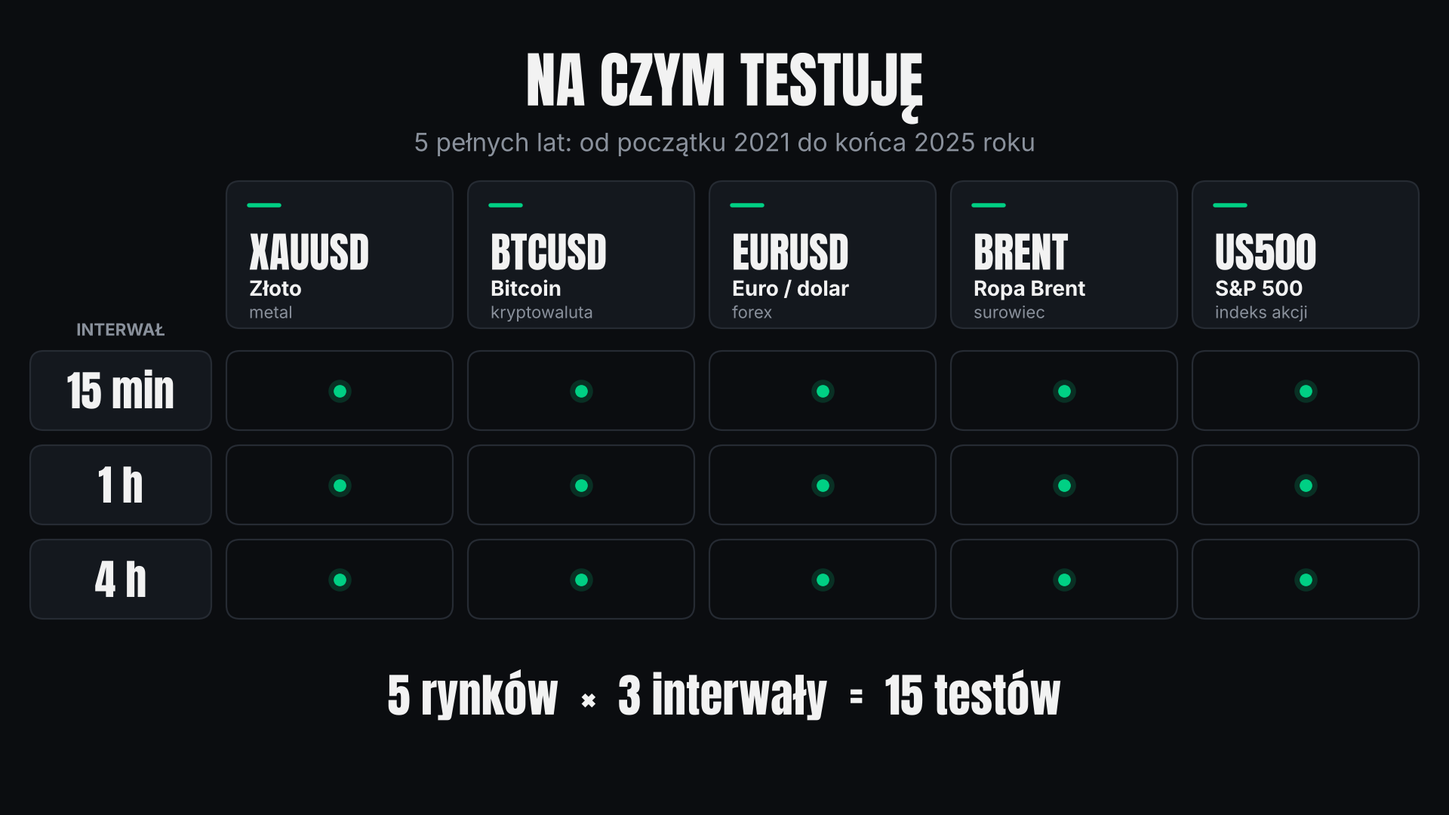
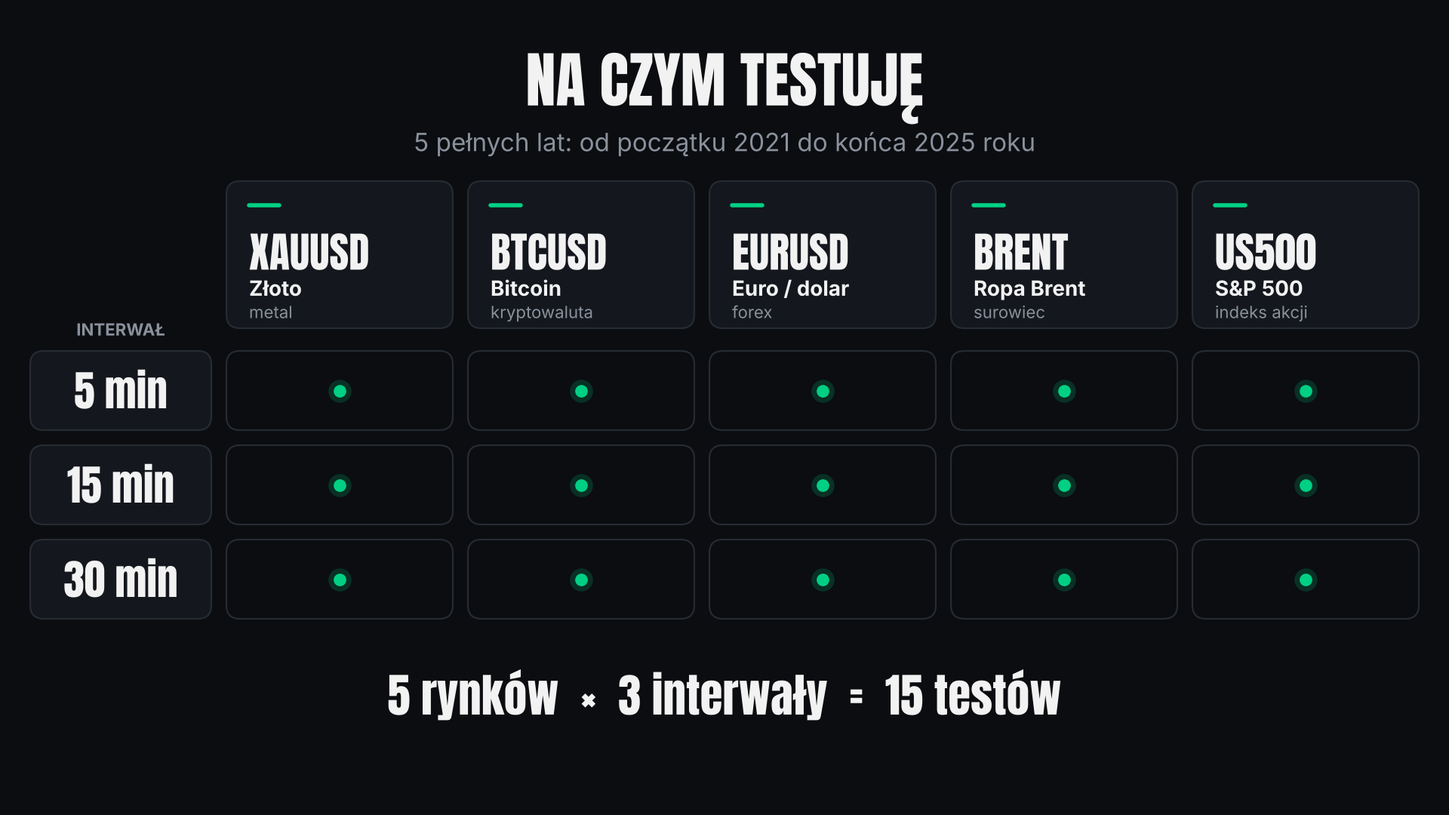
EMA 9 × VWAP: sesyjny VWAP, interwały 5/15/30 min
Decyzja Kamila: VWAP_ANCHOR = "session" (domyślny VWAP z TV) i test
na 5, 15 i 30 min zamiast 15m/1h/4h. WARMUP_DAYS = 50 tylko przy
ciągłym VWAP. Rozpiski, zrodla_strategii.md i plansza rynków.

Claude-Session: https://claude.ai/code/session_01DmSsWCfJHioTR1zLeFnddf

Changed region(s): [[0.0312, 0.6722, 0.125, 0.7333], [0.0312, 0.55, 0.125, 0.6417], [0.0312, 0.4583, 0.125, 0.5194]]

diff --git a/nagrania/TikTok/rozpiska_strategii.html b/nagrania/TikTok/rozpiska_strategii.html
@@ -77,10 +77,10 @@ footer{color:var(--mut);font-size:12.5px;border-top:1px solid var(--line);paddin
 <header><span class="no">04/09</span><h2>EMA 9 × VWAP</h2><p class="src">TikTok AlphaOneTrades, link <span class="miss">do uzupełnienia</span> · <code>EMA9_VWAP.py</code></p></header>
 <div class="grid"><div class="txt"><p class="none claimnone">Claim autora: brak w źródłach</p>
 <dl><dt>Wejście</dt><dd>Short, gdy EMA 9 przecina VWAP od góry. Longów brak.</dd><dt>Wyjście, SL, TP</dt><dd>Zamknięcie shorta, gdy EMA 9 przecina VWAP od dołu. Brak SL i TP.</dd>
-<dt>Interwał</dt><dd>Autor: 30 min, US30. Test: tylko 30 min.</dd><dt>Pozycja</dt><dd>100% kapitału (brak SL)</dd></dl>
-<h3>Nasze założenia</h3><ul><li>VWAP ciągły, bez resetu (hlc3 ważone wolumenem), liczony od 50 dni przed startem testu, tak samo na każdym interwale. Domyślny VWAP w TradingView resetuje się co sesję, ale na 4h to tylko kilka świec na sesję, więc VWAP skakał za ceną i dawał sztuczne przecięcia.</li><li>Ciągły VWAP z czasem robi się bardzo wolny (średnia z całego okresu), więc wynik zależy od daty startu danych. Kotwica do zmiany parametrem <code>VWAP_ANCHOR</code> (none / session / week / month).</li><li>US30 nie ma w naszych danych, więc test idzie na standardowym koszyku.</li></ul>
+<dt>Interwał</dt><dd>Autor: 30 min, US30. Test: 5, 15 i 30 min.</dd><dt>Pozycja</dt><dd>100% kapitału (brak SL)</dd></dl>
+<h3>Nasze założenia</h3><ul><li>VWAP sesyjny (hlc3 ważone wolumenem), reset co sesję od 17:00 czasu NY, jak domyślny VWAP w TradingView. Kotwica do zmiany parametrem <code>VWAP_ANCHOR</code> (session / none / week / month).</li><li>Interwały 5, 15 i 30 min (wokół 30 min autora). Na 1h i 4h sesja ma za mało świec, więc VWAP skacze za ceną i daje sztuczne przecięcia.</li><li>US30 nie ma w naszych danych, więc test idzie na standardowym koszyku.</li></ul>
 <p class="status"><span class="dot"></span>Kod gotowy (PR #12) · wyniki: <span class="miss">brak w plikach projektu</span></p></div>
-<figure class="fig"><svg viewBox="0 0 570 272" role="img" aria-label="EMA 9 przecina VWAP" font-family="Inter, system-ui, sans-serif"><rect x="14" y="10" width="478" height="230" fill="#0F1216" stroke="#1A1E24"/><polyline points="19.8,175.4 31.5,168.2 43.1,164.0 54.8,158.5 66.5,153.9 78.1,148.7 89.8,144.0 101.4,139.0 113.1,134.2 124.8,129.2 136.4,124.4 148.1,119.4 159.7,114.6 171.4,110.2 183.0,107.1 194.7,105.1 206.4,103.5 218.0,102.8 229.7,102.7 241.3,102.9 253.0,103.7 264.7,104.8 276.3,106.1 288.0,107.7 299.6,109.8 311.3,111.7 323.0,114.0 334.6,116.6 346.3,119.1 357.9,121.7 369.6,124.0 381.2,125.9 392.9,127.4 404.6,128.6 416.2,129.4 427.9,130.1 439.5,130.3 451.2,130.4 462.9,130.2 474.5,129.9 486.2,129.3" fill="none" stroke="#7AA2F7" stroke-width="2" stroke-linejoin="round"/><polyline points="19.8,174.4 31.5,168.1 43.1,163.7 54.8,154.5 66.5,148.1 78.1,137.5 89.8,130.3 101.4,119.1 113.1,111.5 124.8,100.1 136.4,92.3 148.1,80.8 159.7,72.9 171.4,65.7 183.0,66.7 194.7,70.4 206.4,73.3 218.0,80.9 229.7,89.1 241.3,94.9 253.0,104.6 264.7,114.1 276.3,120.8 288.0,131.0 299.6,140.9 311.3,147.9 323.0,158.3 334.6,168.3 346.3,175.3 357.9,184.4 369.6,185.3 381.2,185.3 392.9,180.2 404.6,176.2 416.2,168.3 427.9,162.5 439.5,153.4 451.2,146.8 462.9,137.3 474.5,130.3 486.2,120.5" fill="none" stroke="#F5C451" stroke-width="2" stroke-linejoin="round"/><line x1="19.8" x2="19.8" y1="170.3" y2="181.4" stroke="#00D084" stroke-width="1.2"/><rect x="16.4" y="174.4" width="6.8" height="1.2" fill="#00D084"/><line x1="31.5" x2="31.5" y1="148.6" y2="178.8" stroke="#00D084" stroke-width="1.2"/><rect x="28.1" y="155.5" width="6.8" height="19.0" fill="#00D084"/><line x1="43.1" x2="43.1" y1="150.6" y2="161.6" stroke="#00D084" stroke-width="1.2"/><rect x="39.8" y="154.9" width="6.8" height="1.2" fill="#00D084"/><line x1="54.8" x2="54.8" y1="129.4" y2="160.5" stroke="#00D084" stroke-width="1.2"/><rect x="51.4" y="135.9" width="6.8" height="19.0" fill="#00D084"/><line x1="66.5" x2="66.5" y1="130.5" y2="140.7" stroke="#00D084" stroke-width="1.2"/><rect x="63.1" y="135.4" width="6.8" height="1.2" fill="#00D084"/><line x1="78.1" x2="78.1" y1="110.5" y2="142.1" stroke="#00D084" stroke-width="1.2"/><rect x="74.7" y="116.4" width="6.8" height="19.0" fill="#00D084"/><line x1="89.8" x2="89.8" y1="110.3" y2="120.5" stroke="#00D084" stroke-width="1.2"/><rect x="86.4" y="115.8" width="6.8" height="1.2" fill="#00D084"/><line x1="101.4" x2="101.4" y1="91.6" y2="122.4" stroke="#00D084" stroke-width="1.2"/><rect x="98.1" y="96.8" width="6.8" height="19.0" fill="#00D084"/><line x1="113.1" x2="113.1" y1="90.1" y2="101.8" stroke="#00D084" stroke-width="1.2"/><rect x="109.7" y="96.2" width="6.8" height="1.2" fill="#00D084"/><line x1="124.8" x2="124.8" y1="72.7" y2="101.5" stroke="#00D084" stroke-width="1.2"/><rect x="121.4" y="77.3" width="6.8" height="19.0" fill="#00D084"/><line x1="136.4" x2="136.4" y1="70.0" y2="83.7" stroke="#00D084" stroke-width="1.2"/><rect x="133.0" y="76.7" width="6.8" height="1.2" fill="#00D084"/><line x1="148.1" x2="148.1" y1="53.5" y2="80.9" stroke="#00D084" stroke-width="1.2"/><rect x="144.7" y="57.7" width="6.8" height="19.0" fill="#00D084"/><line x1="159.7" x2="159.7" y1="50.3" y2="64.6" stroke="#00D084" stroke-width="1.2"/><rect x="156.4" y="57.1" width="6.8" height="1.2" fill="#00D084"/><line x1="171.4" x2="171.4" y1="47.2" y2="61.7" stroke="#00D084" stroke-width="1.2"/><rect x="168.0" y="51.4" width="6.8" height="5.7" fill="#00D084"/><line x1="183.0" x2="183.0" y1="44.7" y2="74.5" stroke="#FF3B30" stroke-width="1.2"/><rect x="179.7" y="51.4" width="6.8" height="17.2" fill="#FF3B30"/><line x1="194.7" x2="194.7" y1="64.2" y2="83.7" stroke="#FF3B30" stroke-width="1.2"/><rect x="191.3" y="68.6" width="6.8" height="9.2" fill="#FF3B30"/><line x1="206.4" x2="206.4" y1="71.6" y2="83.5" stroke="#FF3B30" stroke-width="1.2"/><rect x="203.0" y="77.8" width="6.8" height="1.2" fill="#FF3B30"/><line x1="218.0" x2="218.0" y1="73.9" y2="103.1" stroke="#FF3B30" stroke-width="1.2"/><rect x="214.6" y="79.0" width="6.8" height="17.2" fill="#FF3B30"/><line x1="229.7" x2="229.7" y1="90.6" y2="109.7" stroke="#FF3B30" stroke-width="1.2"/><rect x="226.3" y="96.2" width="6.8" height="9.2" fill="#FF3B30"/><line x1="241.3" x2="241.3" y1="99.7" y2="113.0" stroke="#FF3B30" stroke-width="1.2"/><rect x="238.0" y="105.5" width="6.8" height="1.2" fill="#FF3B30"/><line x1="253.0" x2="253.0" y1="101.7" y2="129.1" stroke="#FF3B30" stroke-width="1.2"/><rect x="249.6" y="106.6" width="6.8" height="17.2" fill="#FF3B30"/><line x1="264.7" x2="264.7" y1="117.4" y2="138.1" stroke="#FF3B30" stroke-width="1.2"/><rect x="261.3" y="123.9" width="6.8" height="9.2" fill="#FF3B30"/><line x1="276.3" x2="276.3" y1="128.7" y2="140.8" stroke="#FF3B30" stroke-width="1.2"/><rect x="272.9" y="133.1" width="6.8" height="1.2" fill="#FF3B30"/><line x1="288.0" x2="288.0" y1="127.4" y2="155.6" stroke="#FF3B30" stroke-width="1.2"/><rect x="284.6" y="134.2" width="6.8" height="17.3" fill="#FF3B30"/><line x1="299.6" x2="299.6" y1="147.3" y2="167.4" stroke="#FF3B30" stroke-width="1.2"/><rect x="296.3" y="151.5" width="6.8" height="9.2" fill="#FF3B30"/><line x1="311.3" x2="311.3" y1="153.8" y2="166.5" stroke="#FF3B30" stroke-width="1.2"/><rect x="307.9" y="160.7" width="6.8" height="1.2" fill="#FF3B30"/><line x1="323.0" x2="323.0" y1="157.5" y2="184.6" stroke="#FF3B30" stroke-width="1.2"/><rect x="319.6" y="161.8" width="6.8" height="17.2" fill="#FF3B30"/><line x1="334.6" x2="334.6" y1="172.5" y2="194.4" stroke="#FF3B30" stroke-width="1.2"/><rect x="331.2" y="179.1" width="6.8" height="9.2" fill="#FF3B30"/><line x1="346.3" x2="346.3" y1="183.5" y2="193.7" stroke="#FF3B30" stroke-width="1.2"/><rect x="342.9" y="188.3" width="6.8" height="1.2" fill="#FF3B30"/><line x1="357.9" x2="357.9" y1="183.4" y2="209.5" stroke="#FF3B30" stroke-width="1.2"/><rect x="354.5" y="189.4" width="6.8" height="13.2" fill="#FF3B30"/><line x1="369.6" x2="369.6" y1="181.7" y2="207.0" stroke="#00D084" stroke-width="1.2"/><rect x="366.2" y="187.1" width="6.8" height="15.5" fill="#00D084"/><line x1="381.2" x2="381.2" y1="180.1" y2="193.3" stroke="#00D084" stroke-width="1.2"/><rect x="377.9" y="185.4" width="6.8" height="1.7" fill="#00D084"/><line x1="392.9" x2="392.9" y1="163.8" y2="191.0" stroke="#00D084" stroke-width="1.2"/><rect x="389.5" y="169.8" width="6.8" height="15.5" fill="#00D084"/><line x1="404.6" x2="404.6" y1="163.5" y2="174.6" stroke="#00D084" stroke-width="1.2"/><rect x="401.2" y="168.1" width="6.8" height="1.7" fill="#00D084"/><line x1="416.2" x2="416.2" y1="146.0" y2="174.9" stroke="#00D084" stroke-width="1.2"/><rect x="412.8" y="152.6" width="6.8" height="15.5" fill="#00D084"/><line x1="427.9" x2="427.9" y1="146.6" y2="156.7" stroke="#00D084" stroke-width="1.2"/><rect x="424.5" y="150.9" width="6.8" height="1.7" fill="#00D084"/><line x1="439.5" x2="439.5" y1="128.5" y2="157.5" stroke="#00D084" stroke-width="1.2"/><rect x="436.2" y="135.3" width="6.8" height="15.5" fill="#00D084"/><line x1="451.2" x2="451.2" y1="129.5" y2="140.4" stroke="#00D084" stroke-width="1.2"/><rect x="447.8" y="133.6" width="6.8" height="1.7" fill="#00D084"/><line x1="462.9" x2="462.9" y1="111.3" y2="138.9" stroke="#00D084" stroke-width="1.2"/><rect x="459.5" y="118.1" width="6.8" height="15.5" fill="#00D084"/><line x1="474.5" x2="474.5" y1="112.0" y2="124.5" stroke="#00D084" stroke-width="1.2"/><rect x="471.1" y="116.4" width="6.8" height="1.7" fill="#00D084"/><line x1="486.2" x2="486.2" y1="94.5" y2="120.6" stroke="#00D084" stroke-width="1.2"/><rect x="482.8" y="100.8" width="6.8" height="15.5" fill="#00D084"/><polygon points="253.0,98.68739737104457 247.0,87.88739737104457 259.0,87.88739737104457" fill="#FF3B30"/><text x="253.0" y="79.7" text-anchor="start" font-size="11" fill="#F2F2F2">short: EMA 9 przecina VWAP w dół</text><path d="M481.1707317073171,124.33140859163609L491.1707317073171,134.3314085916361M481.1707317073171,134.3314085916361L491.1707317073171,124.33140859163609" stroke="#F2F2F2" stroke-width="2"/><text x="486.2" y="167.3" text-anchor="end" font-size="11" fill="#F2F2F2">wyjście: przecięcie w górę</text><rect x="258.8" y="100.8" width="233.2" height="23.0" fill="#FF3B30" fill-opacity="0.1"/><rect x="22" y="254" width="10" height="3" fill="#F5C451"/><text x="36.0" y="259.0" text-anchor="start" font-size="10.5" fill="#7C838E">EMA 9</text><rect x="80.5" y="254" width="10" height="3" fill="#7AA2F7"/><text x="94.5" y="259.0" text-anchor="start" font-size="10.5" fill="#7C838E">VWAP ciągły</text></svg><figcaption>Schemat poglądowy, nie dane rynkowe.</figcaption></figure></div></section><section class="strat" id="ema9">
+<figure class="fig"><svg viewBox="0 0 570 272" role="img" aria-label="EMA 9 przecina VWAP" font-family="Inter, system-ui, sans-serif"><rect x="14" y="10" width="478" height="230" fill="#0F1216" stroke="#1A1E24"/><polyline points="19.8,175.4 31.5,168.2 43.1,164.0 54.8,158.5 66.5,153.9 78.1,148.7 89.8,144.0 101.4,139.0 113.1,134.2 124.8,129.2 136.4,124.4 148.1,119.4 159.7,114.6 171.4,110.2 183.0,107.1 194.7,105.1 206.4,103.5 218.0,102.8 229.7,102.7 241.3,102.9 253.0,103.7 264.7,104.8 276.3,106.1 288.0,107.7 299.6,109.8 311.3,111.7 323.0,114.0 334.6,116.6 346.3,119.1 357.9,121.7 369.6,124.0 381.2,125.9 392.9,127.4 404.6,128.6 416.2,129.4 427.9,130.1 439.5,130.3 451.2,130.4 462.9,130.2 474.5,129.9 486.2,129.3" fill="none" stroke="#7AA2F7" stroke-width="2" stroke-linejoin="round"/><polyline points="19.8,174.4 31.5,168.1 43.1,163.7 54.8,154.5 66.5,148.1 78.1,137.5 89.8,130.3 101.4,119.1 113.1,111.5 124.8,100.1 136.4,92.3 148.1,80.8 159.7,72.9 171.4,65.7 183.0,66.7 194.7,70.4 206.4,73.3 218.0,80.9 229.7,89.1 241.3,94.9 253.0,104.6 264.7,114.1 276.3,120.8 288.0,131.0 299.6,140.9 311.3,147.9 323.0,158.3 334.6,168.3 346.3,175.3 357.9,184.4 369.6,185.3 381.2,185.3 392.9,180.2 404.6,176.2 416.2,168.3 427.9,162.5 439.5,153.4 451.2,146.8 462.9,137.3 474.5,130.3 486.2,120.5" fill="none" stroke="#F5C451" stroke-width="2" stroke-linejoin="round"/><line x1="19.8" x2="19.8" y1="170.3" y2="181.4" stroke="#00D084" stroke-width="1.2"/><rect x="16.4" y="174.4" width="6.8" height="1.2" fill="#00D084"/><line x1="31.5" x2="31.5" y1="148.6" y2="178.8" stroke="#00D084" stroke-width="1.2"/><rect x="28.1" y="155.5" width="6.8" height="19.0" fill="#00D084"/><line x1="43.1" x2="43.1" y1="150.6" y2="161.6" stroke="#00D084" stroke-width="1.2"/><rect x="39.8" y="154.9" width="6.8" height="1.2" fill="#00D084"/><line x1="54.8" x2="54.8" y1="129.4" y2="160.5" stroke="#00D084" stroke-width="1.2"/><rect x="51.4" y="135.9" width="6.8" height="19.0" fill="#00D084"/><line x1="66.5" x2="66.5" y1="130.5" y2="140.7" stroke="#00D084" stroke-width="1.2"/><rect x="63.1" y="135.4" width="6.8" height="1.2" fill="#00D084"/><line x1="78.1" x2="78.1" y1="110.5" y2="142.1" stroke="#00D084" stroke-width="1.2"/><rect x="74.7" y="116.4" width="6.8" height="19.0" fill="#00D084"/><line x1="89.8" x2="89.8" y1="110.3" y2="120.5" stroke="#00D084" stroke-width="1.2"/><rect x="86.4" y="115.8" width="6.8" height="1.2" fill="#00D084"/><line x1="101.4" x2="101.4" y1="91.6" y2="122.4" stroke="#00D084" stroke-width="1.2"/><rect x="98.1" y="96.8" width="6.8" height="19.0" fill="#00D084"/><line x1="113.1" x2="113.1" y1="90.1" y2="101.8" stroke="#00D084" stroke-width="1.2"/><rect x="109.7" y="96.2" width="6.8" height="1.2" fill="#00D084"/><line x1="124.8" x2="124.8" y1="72.7" y2="101.5" stroke="#00D084" stroke-width="1.2"/><rect x="121.4" y="77.3" width="6.8" height="19.0" fill="#00D084"/><line x1="136.4" x2="136.4" y1="70.0" y2="83.7" stroke="#00D084" stroke-width="1.2"/><rect x="133.0" y="76.7" width="6.8" height="1.2" fill="#00D084"/><line x1="148.1" x2="148.1" y1="53.5" y2="80.9" stroke="#00D084" stroke-width="1.2"/><rect x="144.7" y="57.7" width="6.8" height="19.0" fill="#00D084"/><line x1="159.7" x2="159.7" y1="50.3" y2="64.6" stroke="#00D084" stroke-width="1.2"/><rect x="156.4" y="57.1" width="6.8" height="1.2" fill="#00D084"/><line x1="171.4" x2="171.4" y1="47.2" y2="61.7" stroke="#00D084" stroke-width="1.2"/><rect x="168.0" y="51.4" width="6.8" height="5.7" fill="#00D084"/><line x1="183.0" x2="183.0" y1="44.7" y2="74.5" stroke="#FF3B30" stroke-width="1.2"/><rect x="179.7" y="51.4" width="6.8" height="17.2" fill="#FF3B30"/><line x1="194.7" x2="194.7" y1="64.2" y2="83.7" stroke="#FF3B30" stroke-width="1.2"/><rect x="191.3" y="68.6" width="6.8" height="9.2" fill="#FF3B30"/><line x1="206.4" x2="206.4" y1="71.6" y2="83.5" stroke="#FF3B30" stroke-width="1.2"/><rect x="203.0" y="77.8" width="6.8" height="1.2" fill="#FF3B30"/><line x1="218.0" x2="218.0" y1="73.9" y2="103.1" stroke="#FF3B30" stroke-width="1.2"/><rect x="214.6" y="79.0" width="6.8" height="17.2" fill="#FF3B30"/><line x1="229.7" x2="229.7" y1="90.6" y2="109.7" stroke="#FF3B30" stroke-width="1.2"/><rect x="226.3" y="96.2" width="6.8" height="9.2" fill="#FF3B30"/><line x1="241.3" x2="241.3" y1="99.7" y2="113.0" stroke="#FF3B30" stroke-width="1.2"/><rect x="238.0" y="105.5" width="6.8" height="1.2" fill="#FF3B30"/><line x1="253.0" x2="253.0" y1="101.7" y2="129.1" stroke="#FF3B30" stroke-width="1.2"/><rect x="249.6" y="106.6" width="6.8" height="17.2" fill="#FF3B30"/><line x1="264.7" x2="264.7" y1="117.4" y2="138.1" stroke="#FF3B30" stroke-width="1.2"/><rect x="261.3" y="123.9" width="6.8" height="9.2" fill="#FF3B30"/><line x1="276.3" x2="276.3" y1="128.7" y2="140.8" stroke="#FF3B30" stroke-width="1.2"/><rect x="272.9" y="133.1" width="6.8" height="1.2" fill="#FF3B30"/><line x1="288.0" x2="288.0" y1="127.4" y2="155.6" stroke="#FF3B30" stroke-width="1.2"/><rect x="284.6" y="134.2" width="6.8" height="17.3" fill="#FF3B30"/><line x1="299.6" x2="299.6" y1="147.3" y2="167.4" stroke="#FF3B30" stroke-width="1.2"/><rect x="296.3" y="151.5" width="6.8" height="9.2" fill="#FF3B30"/><line x1="311.3" x2="311.3" y1="153.8" y2="166.5" stroke="#FF3B30" stroke-width="1.2"/><rect x="307.9" y="160.7" width="6.8" height="1.2" fill="#FF3B30"/><line x1="323.0" x2="323.0" y1="157.5" y2="184.6" stroke="#FF3B30" stroke-width="1.2"/><rect x="319.6" y="161.8" width="6.8" height="17.2" fill="#FF3B30"/><line x1="334.6" x2="334.6" y1="172.5" y2="194.4" stroke="#FF3B30" stroke-width="1.2"/><rect x="331.2" y="179.1" width="6.8" height="9.2" fill="#FF3B30"/><line x1="346.3" x2="346.3" y1="183.5" y2="193.7" stroke="#FF3B30" stroke-width="1.2"/><rect x="342.9" y="188.3" width="6.8" height="1.2" fill="#FF3B30"/><line x1="357.9" x2="357.9" y1="183.4" y2="209.5" stroke="#FF3B30" stroke-width="1.2"/><rect x="354.5" y="189.4" width="6.8" height="13.2" fill="#FF3B30"/><line x1="369.6" x2="369.6" y1="181.7" y2="207.0" stroke="#00D084" stroke-width="1.2"/><rect x="366.2" y="187.1" width="6.8" height="15.5" fill="#00D084"/><line x1="381.2" x2="381.2" y1="180.1" y2="193.3" stroke="#00D084" stroke-width="1.2"/><rect x="377.9" y="185.4" width="6.8" height="1.7" fill="#00D084"/><line x1="392.9" x2="392.9" y1="163.8" y2="191.0" stroke="#00D084" stroke-width="1.2"/><rect x="389.5" y="169.8" width="6.8" height="15.5" fill="#00D084"/><line x1="404.6" x2="404.6" y1="163.5" y2="174.6" stroke="#00D084" stroke-width="1.2"/><rect x="401.2" y="168.1" width="6.8" height="1.7" fill="#00D084"/><line x1="416.2" x2="416.2" y1="146.0" y2="174.9" stroke="#00D084" stroke-width="1.2"/><rect x="412.8" y="152.6" width="6.8" height="15.5" fill="#00D084"/><line x1="427.9" x2="427.9" y1="146.6" y2="156.7" stroke="#00D084" stroke-width="1.2"/><rect x="424.5" y="150.9" width="6.8" height="1.7" fill="#00D084"/><line x1="439.5" x2="439.5" y1="128.5" y2="157.5" stroke="#00D084" stroke-width="1.2"/><rect x="436.2" y="135.3" width="6.8" height="15.5" fill="#00D084"/><line x1="451.2" x2="451.2" y1="129.5" y2="140.4" stroke="#00D084" stroke-width="1.2"/><rect x="447.8" y="133.6" width="6.8" height="1.7" fill="#00D084"/><line x1="462.9" x2="462.9" y1="111.3" y2="138.9" stroke="#00D084" stroke-width="1.2"/><rect x="459.5" y="118.1" width="6.8" height="15.5" fill="#00D084"/><line x1="474.5" x2="474.5" y1="112.0" y2="124.5" stroke="#00D084" stroke-width="1.2"/><rect x="471.1" y="116.4" width="6.8" height="1.7" fill="#00D084"/><line x1="486.2" x2="486.2" y1="94.5" y2="120.6" stroke="#00D084" stroke-width="1.2"/><rect x="482.8" y="100.8" width="6.8" height="15.5" fill="#00D084"/><polygon points="253.0,98.68739737104457 247.0,87.88739737104457 259.0,87.88739737104457" fill="#FF3B30"/><text x="253.0" y="79.7" text-anchor="start" font-size="11" fill="#F2F2F2">short: EMA 9 przecina VWAP w dół</text><path d="M481.1707317073171,124.33140859163609L491.1707317073171,134.3314085916361M481.1707317073171,134.3314085916361L491.1707317073171,124.33140859163609" stroke="#F2F2F2" stroke-width="2"/><text x="486.2" y="167.3" text-anchor="end" font-size="11" fill="#F2F2F2">wyjście: przecięcie w górę</text><rect x="258.8" y="100.8" width="233.2" height="23.0" fill="#FF3B30" fill-opacity="0.1"/><rect x="22" y="254" width="10" height="3" fill="#F5C451"/><text x="36.0" y="259.0" text-anchor="start" font-size="10.5" fill="#7C838E">EMA 9</text><rect x="80.5" y="254" width="10" height="3" fill="#7AA2F7"/><text x="94.5" y="259.0" text-anchor="start" font-size="10.5" fill="#7C838E">VWAP sesyjny</text></svg><figcaption>Schemat poglądowy, nie dane rynkowe.</figcaption></figure></div></section><section class="strat" id="ema9">
 <header><span class="no">05/09</span><h2>EMA9</h2><p class="src">TikTok AlphaOneTrades, link <span class="miss">do uzupełnienia</span> · <code>EMA9.py</code></p></header>
 <div class="grid"><div class="txt"><blockquote>„Never trade against 9 EMA”</blockquote>
 <dl><dt>Wejście</dt><dd>Long, gdy zamknięcie przebija EMA 9 w górę. Short, gdy przebija ją w dół.</dd><dt>Wyjście, SL, TP</dt><dd>Brak SL i TP. Przeciwne przebicie zamyka pozycję i od razu otwiera odwrotną.</dd>

diff --git a/nagrania/TikTok/EMA9_VWAP/rozpiska.html b/nagrania/TikTok/EMA9_VWAP/rozpiska.html
@@ -47,9 +47,9 @@ footer{color:var(--mut);font-size:12.5px;border-top:1px solid var(--line);paddin
 <header><span class="no">04/09</span><h2>EMA 9 × VWAP</h2><p class="src">TikTok AlphaOneTrades, link <span class="miss">do uzupełnienia</span> · <code>EMA9_VWAP.py</code></p></header>
 <div class="grid"><div class="txt"><p class="none claimnone">Claim autora: brak w źródłach</p>
 <dl><dt>Wejście</dt><dd>Short, gdy EMA 9 przecina VWAP od góry. Longów brak.</dd><dt>Wyjście, SL, TP</dt><dd>Zamknięcie shorta, gdy EMA 9 przecina VWAP od dołu. Brak SL i TP.</dd>
-<dt>Interwał</dt><dd>Autor: 30 min, US30. Test: tylko 30 min.</dd><dt>Pozycja</dt><dd>100% kapitału (brak SL)</dd></dl>
-<h3>Nasze założenia</h3><ul><li>VWAP ciągły, bez resetu (hlc3 ważone wolumenem), liczony od 50 dni przed startem testu, tak samo na każdym interwale. Domyślny VWAP w TradingView resetuje się co sesję, ale na 4h to tylko kilka świec na sesję, więc VWAP skakał za ceną i dawał sztuczne przecięcia.</li><li>Ciągły VWAP z czasem robi się bardzo wolny (średnia z całego okresu), więc wynik zależy od daty startu danych. Kotwica do zmiany parametrem <code>VWAP_ANCHOR</code> (none / session / week / month).</li><li>US30 nie ma w naszych danych, więc test idzie na standardowym koszyku.</li></ul>
+<dt>Interwał</dt><dd>Autor: 30 min, US30. Test: 5, 15 i 30 min.</dd><dt>Pozycja</dt><dd>100% kapitału (brak SL)</dd></dl>
+<h3>Nasze założenia</h3><ul><li>VWAP sesyjny (hlc3 ważone wolumenem), reset co sesję od 17:00 czasu NY, jak domyślny VWAP w TradingView. Kotwica do zmiany parametrem <code>VWAP_ANCHOR</code> (session / none / week / month).</li><li>Interwały 5, 15 i 30 min (wokół 30 min autora). Na 1h i 4h sesja ma za mało świec, więc VWAP skacze za ceną i daje sztuczne przecięcia.</li><li>US30 nie ma w naszych danych, więc test idzie na standardowym koszyku.</li></ul>
 <p class="status"><span class="dot"></span>Kod gotowy (PR #12) · wyniki: <span class="miss">brak w plikach projektu</span></p></div>
-<figure class="fig"><svg viewBox="0 0 570 272" role="img" aria-label="EMA 9 przecina VWAP" font-family="Inter, system-ui, sans-serif"><rect x="14" y="10" width="478" height="230" fill="#0F1216" stroke="#1A1E24"/><polyline points="19.8,175.4 31.5,168.2 43.1,164.0 54.8,158.5 66.5,153.9 78.1,148.7 89.8,144.0 101.4,139.0 113.1,134.2 124.8,129.2 136.4,124.4 148.1,119.4 159.7,114.6 171.4,110.2 183.0,107.1 194.7,105.1 206.4,103.5 218.0,102.8 229.7,102.7 241.3,102.9 253.0,103.7 264.7,104.8 276.3,106.1 288.0,107.7 299.6,109.8 311.3,111.7 323.0,114.0 334.6,116.6 346.3,119.1 357.9,121.7 369.6,124.0 381.2,125.9 392.9,127.4 404.6,128.6 416.2,129.4 427.9,130.1 439.5,130.3 451.2,130.4 462.9,130.2 474.5,129.9 486.2,129.3" fill="none" stroke="#7AA2F7" stroke-width="2" stroke-linejoin="round"/><polyline points="19.8,174.4 31.5,168.1 43.1,163.7 54.8,154.5 66.5,148.1 78.1,137.5 89.8,130.3 101.4,119.1 113.1,111.5 124.8,100.1 136.4,92.3 148.1,80.8 159.7,72.9 171.4,65.7 183.0,66.7 194.7,70.4 206.4,73.3 218.0,80.9 229.7,89.1 241.3,94.9 253.0,104.6 264.7,114.1 276.3,120.8 288.0,131.0 299.6,140.9 311.3,147.9 323.0,158.3 334.6,168.3 346.3,175.3 357.9,184.4 369.6,185.3 381.2,185.3 392.9,180.2 404.6,176.2 416.2,168.3 427.9,162.5 439.5,153.4 451.2,146.8 462.9,137.3 474.5,130.3 486.2,120.5" fill="none" stroke="#F5C451" stroke-width="2" stroke-linejoin="round"/><line x1="19.8" x2="19.8" y1="170.3" y2="181.4" stroke="#00D084" stroke-width="1.2"/><rect x="16.4" y="174.4" width="6.8" height="1.2" fill="#00D084"/><line x1="31.5" x2="31.5" y1="148.6" y2="178.8" stroke="#00D084" stroke-width="1.2"/><rect x="28.1" y="155.5" width="6.8" height="19.0" fill="#00D084"/><line x1="43.1" x2="43.1" y1="150.6" y2="161.6" stroke="#00D084" stroke-width="1.2"/><rect x="39.8" y="154.9" width="6.8" height="1.2" fill="#00D084"/><line x1="54.8" x2="54.8" y1="129.4" y2="160.5" stroke="#00D084" stroke-width="1.2"/><rect x="51.4" y="135.9" width="6.8" height="19.0" fill="#00D084"/><line x1="66.5" x2="66.5" y1="130.5" y2="140.7" stroke="#00D084" stroke-width="1.2"/><rect x="63.1" y="135.4" width="6.8" height="1.2" fill="#00D084"/><line x1="78.1" x2="78.1" y1="110.5" y2="142.1" stroke="#00D084" stroke-width="1.2"/><rect x="74.7" y="116.4" width="6.8" height="19.0" fill="#00D084"/><line x1="89.8" x2="89.8" y1="110.3" y2="120.5" stroke="#00D084" stroke-width="1.2"/><rect x="86.4" y="115.8" width="6.8" height="1.2" fill="#00D084"/><line x1="101.4" x2="101.4" y1="91.6" y2="122.4" stroke="#00D084" stroke-width="1.2"/><rect x="98.1" y="96.8" width="6.8" height="19.0" fill="#00D084"/><line x1="113.1" x2="113.1" y1="90.1" y2="101.8" stroke="#00D084" stroke-width="1.2"/><rect x="109.7" y="96.2" width="6.8" height="1.2" fill="#00D084"/><line x1="124.8" x2="124.8" y1="72.7" y2="101.5" stroke="#00D084" stroke-width="1.2"/><rect x="121.4" y="77.3" width="6.8" height="19.0" fill="#00D084"/><line x1="136.4" x2="136.4" y1="70.0" y2="83.7" stroke="#00D084" stroke-width="1.2"/><rect x="133.0" y="76.7" width="6.8" height="1.2" fill="#00D084"/><line x1="148.1" x2="148.1" y1="53.5" y2="80.9" stroke="#00D084" stroke-width="1.2"/><rect x="144.7" y="57.7" width="6.8" height="19.0" fill="#00D084"/><line x1="159.7" x2="159.7" y1="50.3" y2="64.6" stroke="#00D084" stroke-width="1.2"/><rect x="156.4" y="57.1" width="6.8" height="1.2" fill="#00D084"/><line x1="171.4" x2="171.4" y1="47.2" y2="61.7" stroke="#00D084" stroke-width="1.2"/><rect x="168.0" y="51.4" width="6.8" height="5.7" fill="#00D084"/><line x1="183.0" x2="183.0" y1="44.7" y2="74.5" stroke="#FF3B30" stroke-width="1.2"/><rect x="179.7" y="51.4" width="6.8" height="17.2" fill="#FF3B30"/><line x1="194.7" x2="194.7" y1="64.2" y2="83.7" stroke="#FF3B30" stroke-width="1.2"/><rect x="191.3" y="68.6" width="6.8" height="9.2" fill="#FF3B30"/><line x1="206.4" x2="206.4" y1="71.6" y2="83.5" stroke="#FF3B30" stroke-width="1.2"/><rect x="203.0" y="77.8" width="6.8" height="1.2" fill="#FF3B30"/><line x1="218.0" x2="218.0" y1="73.9" y2="103.1" stroke="#FF3B30" stroke-width="1.2"/><rect x="214.6" y="79.0" width="6.8" height="17.2" fill="#FF3B30"/><line x1="229.7" x2="229.7" y1="90.6" y2="109.7" stroke="#FF3B30" stroke-width="1.2"/><rect x="226.3" y="96.2" width="6.8" height="9.2" fill="#FF3B30"/><line x1="241.3" x2="241.3" y1="99.7" y2="113.0" stroke="#FF3B30" stroke-width="1.2"/><rect x="238.0" y="105.5" width="6.8" height="1.2" fill="#FF3B30"/><line x1="253.0" x2="253.0" y1="101.7" y2="129.1" stroke="#FF3B30" stroke-width="1.2"/><rect x="249.6" y="106.6" width="6.8" height="17.2" fill="#FF3B30"/><line x1="264.7" x2="264.7" y1="117.4" y2="138.1" stroke="#FF3B30" stroke-width="1.2"/><rect x="261.3" y="123.9" width="6.8" height="9.2" fill="#FF3B30"/><line x1="276.3" x2="276.3" y1="128.7" y2="140.8" stroke="#FF3B30" stroke-width="1.2"/><rect x="272.9" y="133.1" width="6.8" height="1.2" fill="#FF3B30"/><line x1="288.0" x2="288.0" y1="127.4" y2="155.6" stroke="#FF3B30" stroke-width="1.2"/><rect x="284.6" y="134.2" width="6.8" height="17.3" fill="#FF3B30"/><line x1="299.6" x2="299.6" y1="147.3" y2="167.4" stroke="#FF3B30" stroke-width="1.2"/><rect x="296.3" y="151.5" width="6.8" height="9.2" fill="#FF3B30"/><line x1="311.3" x2="311.3" y1="153.8" y2="166.5" stroke="#FF3B30" stroke-width="1.2"/><rect x="307.9" y="160.7" width="6.8" height="1.2" fill="#FF3B30"/><line x1="323.0" x2="323.0" y1="157.5" y2="184.6" stroke="#FF3B30" stroke-width="1.2"/><rect x="319.6" y="161.8" width="6.8" height="17.2" fill="#FF3B30"/><line x1="334.6" x2="334.6" y1="172.5" y2="194.4" stroke="#FF3B30" stroke-width="1.2"/><rect x="331.2" y="179.1" width="6.8" height="9.2" fill="#FF3B30"/><line x1="346.3" x2="346.3" y1="183.5" y2="193.7" stroke="#FF3B30" stroke-width="1.2"/><rect x="342.9" y="188.3" width="6.8" height="1.2" fill="#FF3B30"/><line x1="357.9" x2="357.9" y1="183.4" y2="209.5" stroke="#FF3B30" stroke-width="1.2"/><rect x="354.5" y="189.4" width="6.8" height="13.2" fill="#FF3B30"/><line x1="369.6" x2="369.6" y1="181.7" y2="207.0" stroke="#00D084" stroke-width="1.2"/><rect x="366.2" y="187.1" width="6.8" height="15.5" fill="#00D084"/><line x1="381.2" x2="381.2" y1="180.1" y2="193.3" stroke="#00D084" stroke-width="1.2"/><rect x="377.9" y="185.4" width="6.8" height="1.7" fill="#00D084"/><line x1="392.9" x2="392.9" y1="163.8" y2="191.0" stroke="#00D084" stroke-width="1.2"/><rect x="389.5" y="169.8" width="6.8" height="15.5" fill="#00D084"/><line x1="404.6" x2="404.6" y1="163.5" y2="174.6" stroke="#00D084" stroke-width="1.2"/><rect x="401.2" y="168.1" width="6.8" height="1.7" fill="#00D084"/><line x1="416.2" x2="416.2" y1="146.0" y2="174.9" stroke="#00D084" stroke-width="1.2"/><rect x="412.8" y="152.6" width="6.8" height="15.5" fill="#00D084"/><line x1="427.9" x2="427.9" y1="146.6" y2="156.7" stroke="#00D084" stroke-width="1.2"/><rect x="424.5" y="150.9" width="6.8" height="1.7" fill="#00D084"/><line x1="439.5" x2="439.5" y1="128.5" y2="157.5" stroke="#00D084" stroke-width="1.2"/><rect x="436.2" y="135.3" width="6.8" height="15.5" fill="#00D084"/><line x1="451.2" x2="451.2" y1="129.5" y2="140.4" stroke="#00D084" stroke-width="1.2"/><rect x="447.8" y="133.6" width="6.8" height="1.7" fill="#00D084"/><line x1="462.9" x2="462.9" y1="111.3" y2="138.9" stroke="#00D084" stroke-width="1.2"/><rect x="459.5" y="118.1" width="6.8" height="15.5" fill="#00D084"/><line x1="474.5" x2="474.5" y1="112.0" y2="124.5" stroke="#00D084" stroke-width="1.2"/><rect x="471.1" y="116.4" width="6.8" height="1.7" fill="#00D084"/><line x1="486.2" x2="486.2" y1="94.5" y2="120.6" stroke="#00D084" stroke-width="1.2"/><rect x="482.8" y="100.8" width="6.8" height="15.5" fill="#00D084"/><polygon points="253.0,98.68739737104457 247.0,87.88739737104457 259.0,87.88739737104457" fill="#FF3B30"/><text x="253.0" y="79.7" text-anchor="start" font-size="11" fill="#F2F2F2">short: EMA 9 przecina VWAP w dół</text><path d="M481.1707317073171,124.33140859163609L491.1707317073171,134.3314085916361M481.1707317073171,134.3314085916361L491.1707317073171,124.33140859163609" stroke="#F2F2F2" stroke-width="2"/><text x="486.2" y="167.3" text-anchor="end" font-size="11" fill="#F2F2F2">wyjście: przecięcie w górę</text><rect x="258.8" y="100.8" width="233.2" height="23.0" fill="#FF3B30" fill-opacity="0.1"/><rect x="22" y="254" width="10" height="3" fill="#F5C451"/><text x="36.0" y="259.0" text-anchor="start" font-size="10.5" fill="#7C838E">EMA 9</text><rect x="80.5" y="254" width="10" height="3" fill="#7AA2F7"/><text x="94.5" y="259.0" text-anchor="start" font-size="10.5" fill="#7C838E">VWAP ciągły</text></svg><figcaption>Schemat poglądowy, nie dane rynkowe.</figcaption></figure></div></section>
+<figure class="fig"><svg viewBox="0 0 570 272" role="img" aria-label="EMA 9 przecina VWAP" font-family="Inter, system-ui, sans-serif"><rect x="14" y="10" width="478" height="230" fill="#0F1216" stroke="#1A1E24"/><polyline points="19.8,175.4 31.5,168.2 43.1,164.0 54.8,158.5 66.5,153.9 78.1,148.7 89.8,144.0 101.4,139.0 113.1,134.2 124.8,129.2 136.4,124.4 148.1,119.4 159.7,114.6 171.4,110.2 183.0,107.1 194.7,105.1 206.4,103.5 218.0,102.8 229.7,102.7 241.3,102.9 253.0,103.7 264.7,104.8 276.3,106.1 288.0,107.7 299.6,109.8 311.3,111.7 323.0,114.0 334.6,116.6 346.3,119.1 357.9,121.7 369.6,124.0 381.2,125.9 392.9,127.4 404.6,128.6 416.2,129.4 427.9,130.1 439.5,130.3 451.2,130.4 462.9,130.2 474.5,129.9 486.2,129.3" fill="none" stroke="#7AA2F7" stroke-width="2" stroke-linejoin="round"/><polyline points="19.8,174.4 31.5,168.1 43.1,163.7 54.8,154.5 66.5,148.1 78.1,137.5 89.8,130.3 101.4,119.1 113.1,111.5 124.8,100.1 136.4,92.3 148.1,80.8 159.7,72.9 171.4,65.7 183.0,66.7 194.7,70.4 206.4,73.3 218.0,80.9 229.7,89.1 241.3,94.9 253.0,104.6 264.7,114.1 276.3,120.8 288.0,131.0 299.6,140.9 311.3,147.9 323.0,158.3 334.6,168.3 346.3,175.3 357.9,184.4 369.6,185.3 381.2,185.3 392.9,180.2 404.6,176.2 416.2,168.3 427.9,162.5 439.5,153.4 451.2,146.8 462.9,137.3 474.5,130.3 486.2,120.5" fill="none" stroke="#F5C451" stroke-width="2" stroke-linejoin="round"/><line x1="19.8" x2="19.8" y1="170.3" y2="181.4" stroke="#00D084" stroke-width="1.2"/><rect x="16.4" y="174.4" width="6.8" height="1.2" fill="#00D084"/><line x1="31.5" x2="31.5" y1="148.6" y2="178.8" stroke="#00D084" stroke-width="1.2"/><rect x="28.1" y="155.5" width="6.8" height="19.0" fill="#00D084"/><line x1="43.1" x2="43.1" y1="150.6" y2="161.6" stroke="#00D084" stroke-width="1.2"/><rect x="39.8" y="154.9" width="6.8" height="1.2" fill="#00D084"/><line x1="54.8" x2="54.8" y1="129.4" y2="160.5" stroke="#00D084" stroke-width="1.2"/><rect x="51.4" y="135.9" width="6.8" height="19.0" fill="#00D084"/><line x1="66.5" x2="66.5" y1="130.5" y2="140.7" stroke="#00D084" stroke-width="1.2"/><rect x="63.1" y="135.4" width="6.8" height="1.2" fill="#00D084"/><line x1="78.1" x2="78.1" y1="110.5" y2="142.1" stroke="#00D084" stroke-width="1.2"/><rect x="74.7" y="116.4" width="6.8" height="19.0" fill="#00D084"/><line x1="89.8" x2="89.8" y1="110.3" y2="120.5" stroke="#00D084" stroke-width="1.2"/><rect x="86.4" y="115.8" width="6.8" height="1.2" fill="#00D084"/><line x1="101.4" x2="101.4" y1="91.6" y2="122.4" stroke="#00D084" stroke-width="1.2"/><rect x="98.1" y="96.8" width="6.8" height="19.0" fill="#00D084"/><line x1="113.1" x2="113.1" y1="90.1" y2="101.8" stroke="#00D084" stroke-width="1.2"/><rect x="109.7" y="96.2" width="6.8" height="1.2" fill="#00D084"/><line x1="124.8" x2="124.8" y1="72.7" y2="101.5" stroke="#00D084" stroke-width="1.2"/><rect x="121.4" y="77.3" width="6.8" height="19.0" fill="#00D084"/><line x1="136.4" x2="136.4" y1="70.0" y2="83.7" stroke="#00D084" stroke-width="1.2"/><rect x="133.0" y="76.7" width="6.8" height="1.2" fill="#00D084"/><line x1="148.1" x2="148.1" y1="53.5" y2="80.9" stroke="#00D084" stroke-width="1.2"/><rect x="144.7" y="57.7" width="6.8" height="19.0" fill="#00D084"/><line x1="159.7" x2="159.7" y1="50.3" y2="64.6" stroke="#00D084" stroke-width="1.2"/><rect x="156.4" y="57.1" width="6.8" height="1.2" fill="#00D084"/><line x1="171.4" x2="171.4" y1="47.2" y2="61.7" stroke="#00D084" stroke-width="1.2"/><rect x="168.0" y="51.4" width="6.8" height="5.7" fill="#00D084"/><line x1="183.0" x2="183.0" y1="44.7" y2="74.5" stroke="#FF3B30" stroke-width="1.2"/><rect x="179.7" y="51.4" width="6.8" height="17.2" fill="#FF3B30"/><line x1="194.7" x2="194.7" y1="64.2" y2="83.7" stroke="#FF3B30" stroke-width="1.2"/><rect x="191.3" y="68.6" width="6.8" height="9.2" fill="#FF3B30"/><line x1="206.4" x2="206.4" y1="71.6" y2="83.5" stroke="#FF3B30" stroke-width="1.2"/><rect x="203.0" y="77.8" width="6.8" height="1.2" fill="#FF3B30"/><line x1="218.0" x2="218.0" y1="73.9" y2="103.1" stroke="#FF3B30" stroke-width="1.2"/><rect x="214.6" y="79.0" width="6.8" height="17.2" fill="#FF3B30"/><line x1="229.7" x2="229.7" y1="90.6" y2="109.7" stroke="#FF3B30" stroke-width="1.2"/><rect x="226.3" y="96.2" width="6.8" height="9.2" fill="#FF3B30"/><line x1="241.3" x2="241.3" y1="99.7" y2="113.0" stroke="#FF3B30" stroke-width="1.2"/><rect x="238.0" y="105.5" width="6.8" height="1.2" fill="#FF3B30"/><line x1="253.0" x2="253.0" y1="101.7" y2="129.1" stroke="#FF3B30" stroke-width="1.2"/><rect x="249.6" y="106.6" width="6.8" height="17.2" fill="#FF3B30"/><line x1="264.7" x2="264.7" y1="117.4" y2="138.1" stroke="#FF3B30" stroke-width="1.2"/><rect x="261.3" y="123.9" width="6.8" height="9.2" fill="#FF3B30"/><line x1="276.3" x2="276.3" y1="128.7" y2="140.8" stroke="#FF3B30" stroke-width="1.2"/><rect x="272.9" y="133.1" width="6.8" height="1.2" fill="#FF3B30"/><line x1="288.0" x2="288.0" y1="127.4" y2="155.6" stroke="#FF3B30" stroke-width="1.2"/><rect x="284.6" y="134.2" width="6.8" height="17.3" fill="#FF3B30"/><line x1="299.6" x2="299.6" y1="147.3" y2="167.4" stroke="#FF3B30" stroke-width="1.2"/><rect x="296.3" y="151.5" width="6.8" height="9.2" fill="#FF3B30"/><line x1="311.3" x2="311.3" y1="153.8" y2="166.5" stroke="#FF3B30" stroke-width="1.2"/><rect x="307.9" y="160.7" width="6.8" height="1.2" fill="#FF3B30"/><line x1="323.0" x2="323.0" y1="157.5" y2="184.6" stroke="#FF3B30" stroke-width="1.2"/><rect x="319.6" y="161.8" width="6.8" height="17.2" fill="#FF3B30"/><line x1="334.6" x2="334.6" y1="172.5" y2="194.4" stroke="#FF3B30" stroke-width="1.2"/><rect x="331.2" y="179.1" width="6.8" height="9.2" fill="#FF3B30"/><line x1="346.3" x2="346.3" y1="183.5" y2="193.7" stroke="#FF3B30" stroke-width="1.2"/><rect x="342.9" y="188.3" width="6.8" height="1.2" fill="#FF3B30"/><line x1="357.9" x2="357.9" y1="183.4" y2="209.5" stroke="#FF3B30" stroke-width="1.2"/><rect x="354.5" y="189.4" width="6.8" height="13.2" fill="#FF3B30"/><line x1="369.6" x2="369.6" y1="181.7" y2="207.0" stroke="#00D084" stroke-width="1.2"/><rect x="366.2" y="187.1" width="6.8" height="15.5" fill="#00D084"/><line x1="381.2" x2="381.2" y1="180.1" y2="193.3" stroke="#00D084" stroke-width="1.2"/><rect x="377.9" y="185.4" width="6.8" height="1.7" fill="#00D084"/><line x1="392.9" x2="392.9" y1="163.8" y2="191.0" stroke="#00D084" stroke-width="1.2"/><rect x="389.5" y="169.8" width="6.8" height="15.5" fill="#00D084"/><line x1="404.6" x2="404.6" y1="163.5" y2="174.6" stroke="#00D084" stroke-width="1.2"/><rect x="401.2" y="168.1" width="6.8" height="1.7" fill="#00D084"/><line x1="416.2" x2="416.2" y1="146.0" y2="174.9" stroke="#00D084" stroke-width="1.2"/><rect x="412.8" y="152.6" width="6.8" height="15.5" fill="#00D084"/><line x1="427.9" x2="427.9" y1="146.6" y2="156.7" stroke="#00D084" stroke-width="1.2"/><rect x="424.5" y="150.9" width="6.8" height="1.7" fill="#00D084"/><line x1="439.5" x2="439.5" y1="128.5" y2="157.5" stroke="#00D084" stroke-width="1.2"/><rect x="436.2" y="135.3" width="6.8" height="15.5" fill="#00D084"/><line x1="451.2" x2="451.2" y1="129.5" y2="140.4" stroke="#00D084" stroke-width="1.2"/><rect x="447.8" y="133.6" width="6.8" height="1.7" fill="#00D084"/><line x1="462.9" x2="462.9" y1="111.3" y2="138.9" stroke="#00D084" stroke-width="1.2"/><rect x="459.5" y="118.1" width="6.8" height="15.5" fill="#00D084"/><line x1="474.5" x2="474.5" y1="112.0" y2="124.5" stroke="#00D084" stroke-width="1.2"/><rect x="471.1" y="116.4" width="6.8" height="1.7" fill="#00D084"/><line x1="486.2" x2="486.2" y1="94.5" y2="120.6" stroke="#00D084" stroke-width="1.2"/><rect x="482.8" y="100.8" width="6.8" height="15.5" fill="#00D084"/><polygon points="253.0,98.68739737104457 247.0,87.88739737104457 259.0,87.88739737104457" fill="#FF3B30"/><text x="253.0" y="79.7" text-anchor="start" font-size="11" fill="#F2F2F2">short: EMA 9 przecina VWAP w dół</text><path d="M481.1707317073171,124.33140859163609L491.1707317073171,134.3314085916361M481.1707317073171,134.3314085916361L491.1707317073171,124.33140859163609" stroke="#F2F2F2" stroke-width="2"/><text x="486.2" y="167.3" text-anchor="end" font-size="11" fill="#F2F2F2">wyjście: przecięcie w górę</text><rect x="258.8" y="100.8" width="233.2" height="23.0" fill="#FF3B30" fill-opacity="0.1"/><rect x="22" y="254" width="10" height="3" fill="#F5C451"/><text x="36.0" y="259.0" text-anchor="start" font-size="10.5" fill="#7C838E">EMA 9</text><rect x="80.5" y="254" width="10" height="3" fill="#7AA2F7"/><text x="94.5" y="259.0" text-anchor="start" font-size="10.5" fill="#7C838E">VWAP sesyjny</text></svg><figcaption>Schemat poglądowy, nie dane rynkowe.</figcaption></figure></div></section>
 <footer>Źródła: zrodla_strategii.md i kod strategii w Creytest/ticktester (strategies/tiktok), stan na 1.11.2026. Schematy są poglądowe.</footer>
 </div>

diff --git a/strategies/tiktok/EMA9_VWAP.py b/strategies/tiktok/EMA9_VWAP.py
@@ -6,8 +6,10 @@ from strategies.tiktok.CloudMA_EMA30_74 import ema
 
 NAME = "EMA 9 × VWAP"
 
-# Autor pokazuje strategię na 30 minutach (day trading).
-TIMEFRAMES = ["15min", "1h", "4h"]
+# Autor pokazuje strategię na 30 minutach (day trading). Interwały
+# intraday wokół 30 min (Kamil, 2026-11-13): na 1h/4h sesyjny VWAP ma
+# za mało świec na sesję.
+TIMEFRAMES = ["5min", "15min", "30min"]
 
 # Tylko shorty. Brak SL i TP: przecięcie w górę zamyka shorta
 # (exit_short), bez otwierania longa.
@@ -19,26 +21,25 @@ SAME_SIGNAL = "ignore"
 EQUITY_FRACTION = 1.0
 
 
-# Kotwica VWAP (nasze założenie, autor jej nie podaje):
-#   "none"    — VWAP ciągły, bez resetu: liczony od pierwszej świecy
-#               danych (początek rozgrzewki przed testem). Domyślnie
-#               (Kamil, 2026-11-13): sesyjny VWAP na 4h ma 1–6 świec na
-#               sesję, skacze za ceną i daje sztuczne przecięcia.
+# Kotwica VWAP (autor jej nie podaje):
 #   "session" — reset na początku każdej sesji (doba w czasie danych,
 #               od 17:00 w Nowym Jorku), jak domyślny VWAP w TradingView.
+#               Domyślnie (Kamil, 2026-11-13), razem z interwałami 5/15/30 min.
+#   "none"    — VWAP ciągły, bez resetu: liczony od pierwszej świecy
+#               danych (początek rozgrzewki przed testem).
 #   "week"    — reset na początku tygodnia (poniedziałek 00:00 w czasie
 #               danych = niedziela 17:00 NY), jak kotwica "Week" w TV.
 #   "month"   — reset na początku miesiąca, jak kotwica "Month" w TV.
 # Uwaga: ciągły VWAP z czasem robi się bardzo wolny (średnia z całej
 # historii), więc wynik zależy od daty startu danych.
-VWAP_ANCHOR = "none"
+VWAP_ANCHOR = "session"
 
-# Rozgrzewka = 300 świec, czyli 3 dni na 15 min i 50 dni na 4h. Przy
-# ciągłym VWAP to także jego punkt startu, więc wyrównujemy rozgrzewkę
-# do 50 dni na każdym interwale: VWAP startuje w tym samym dniu
-# (START_DATE − 50 dni) na 15 min, 1h i 4h.
-# Przy CHUNK_YEARS VWAP startuje od nowa w każdym kawałku.
-WARMUP_DAYS = 50
+# Rozgrzewka = 300 świec (na 5 min ~1 dzień). Przy ciągłym VWAP to
+# także jego punkt startu, więc wtedy wyrównujemy rozgrzewkę do 50 dni
+# na każdym interwale: VWAP startuje w tym samym dniu (START_DATE − 50
+# dni). Przy CHUNK_YEARS ciągły VWAP startuje od nowa w każdym kawałku.
+# Sesyjny VWAP nie potrzebuje dłuższej rozgrzewki.
+WARMUP_DAYS = 50 if VWAP_ANCHOR == "none" else 0
 
 _ANCHORS = ("none", "session", "week", "month")
 
@@ -89,7 +90,7 @@ def session_vwap(bars: pd.DataFrame) -> pd.Series:
 def generate_signals(bars: pd.DataFrame, length: int = 9) -> pd.DataFrame:
     """
     Short: EMA 9 przecina VWAP od góry (VWAP wg VWAP_ANCHOR,
-    domyślnie ciągły).
+    domyślnie sesyjny).
     Wyjście: EMA 9 przecina VWAP od dołu. Brak SL i TP, brak longów.
 
     Wyjście:

diff --git a/run_all_assets.py b/run_all_assets.py
@@ -34,7 +34,7 @@ from narzedzia.plansze_objasniajace.rynki_plansza import period_text, plansza as
 #   "LuxAlgo_SR_Breaks_MSTS"    — LuxAlgo S/R Breaks + Market Structure Trailing Stop
 #   "CloudMA_EMA30_74"          — Triangles. Cloud MA EMA 30/74 + SL na swingu
 #   "SFP_Volume"                — SFP+Volume (LuxAlgo SFP + Volume Delta), tylko 30min
-#   "EMA9_VWAP"                 — EMA 9 × VWAP (ciągły, VWAP_ANCHOR), tylko short, wyjście na przecięciu w górę, 30min
+#   "EMA9_VWAP"                 — EMA 9 × VWAP (sesyjny, VWAP_ANCHOR), tylko short, wyjście na przecięciu w górę, 5/15/30min
 #   "EMA9"                      — EMA9 (zamknięcie nad/pod EMA 9, reverse), 30min
 #   "SR_Retest"                 — SR Retest (opór/wsparcie z pivotów, wybicie + retest, SL/TP 2:1), 5min
 #   "SSL_IFVG"                  — SSL + IFVG (ICT: sweep płynności + odwrócony FVG, SL za luką, TP 2:1), 1min

diff --git a/nagrania/TikTok/zrodla_strategii.md b/nagrania/TikTok/zrodla_strategii.md
@@ -5,7 +5,7 @@ Na TikToku nie ma tekstu posta, więc zapisuję tylko to, co mamy w rozmowie. Br
 | LuxAlgo S/R Breaks + Market Structure Trailing Stop | `LuxAlgo_SR_Breaks_MSTS.py` | TikTok @luxalgo: https://www.tiktok.com/@luxalgo/video/7256038057697185066 | Wskaźniki „Support and Resistance Levels with Breaks” i „Market Structure Trailing Stop” (LuxAlgo). Wejście na zielonym lub czerwonym „B”, wyjście na trailing stopie. |
 | Cloud MA EMA 30/74 + SL na swingu | `CloudMA_EMA30_74.py` | do uzupełnienia | Wskaźniki „ghost candle” (autor kodu: deimosaffair) i Cloud MA (EMA 30/74, wskaźnik Daveatta). Long na zielonym trójkącie, short na czerwonym, SL na ostatnim pivocie. |
 | SFP+Volume | `SFP_Volume.py` | do uzupełnienia | Wskaźnik „Swing Failure Pattern [LuxAlgo]” + świeca wolumenowa. Short przy SFP w dół i świecy z „more selling pressure”, long odwrotnie. Tylko 30 min. |
-| EMA 9 × VWAP | `EMA9_VWAP.py` | TikTok AlphaOneTrades (link do uzupełnienia) | Short, gdy EMA 9 przecina VWAP od góry. Brak SL i TP. 30 min. Nasze założenie: VWAP ciągły, bez resetu sesyjnego (Kamil, 2026-11-13; parametr `VWAP_ANCHOR`). |
+| EMA 9 × VWAP | `EMA9_VWAP.py` | TikTok AlphaOneTrades (link do uzupełnienia) | Short, gdy EMA 9 przecina VWAP od góry. Brak SL i TP. 30 min. Nasze założenie: VWAP sesyjny jak domyślny w TV (parametr `VWAP_ANCHOR`), test na 5, 15 i 30 min (Kamil, 2026-11-13). |
 | EMA9 | `EMA9.py` | TikTok AlphaOneTrades (link do uzupełnienia) | Gra z EMA 9 na 30 min, bez SL i TP. |
 | RSI 6 (80/20) RR 2:1 | `RSI6_80_20.py` | do uzupełnienia | — |
 | BigBeluga Two-Pole + Stochastic 7,3,3 | `BigBeluga_Stoch_80percent.py` | do uzupełnienia | Claim 80%. |
